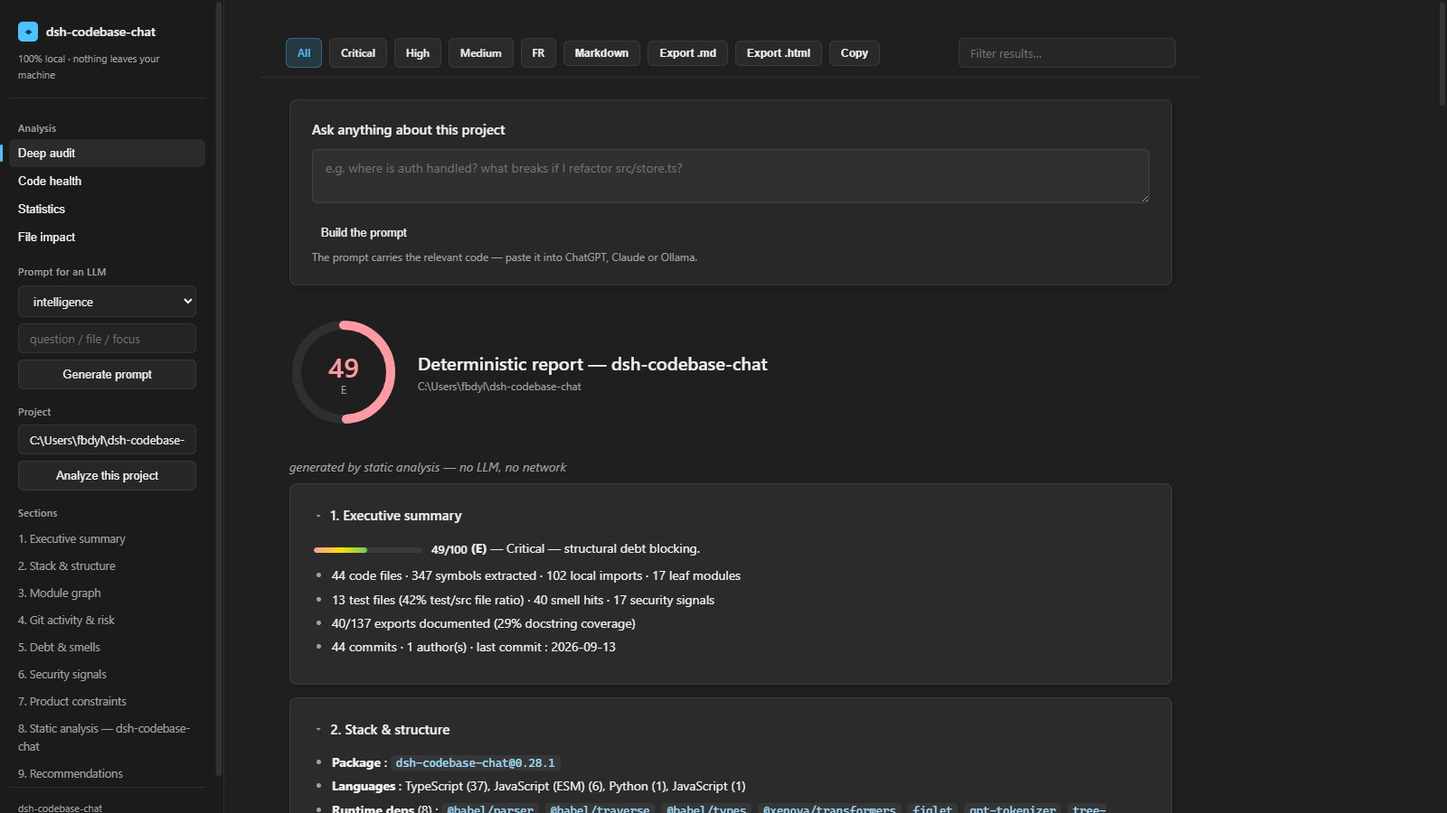
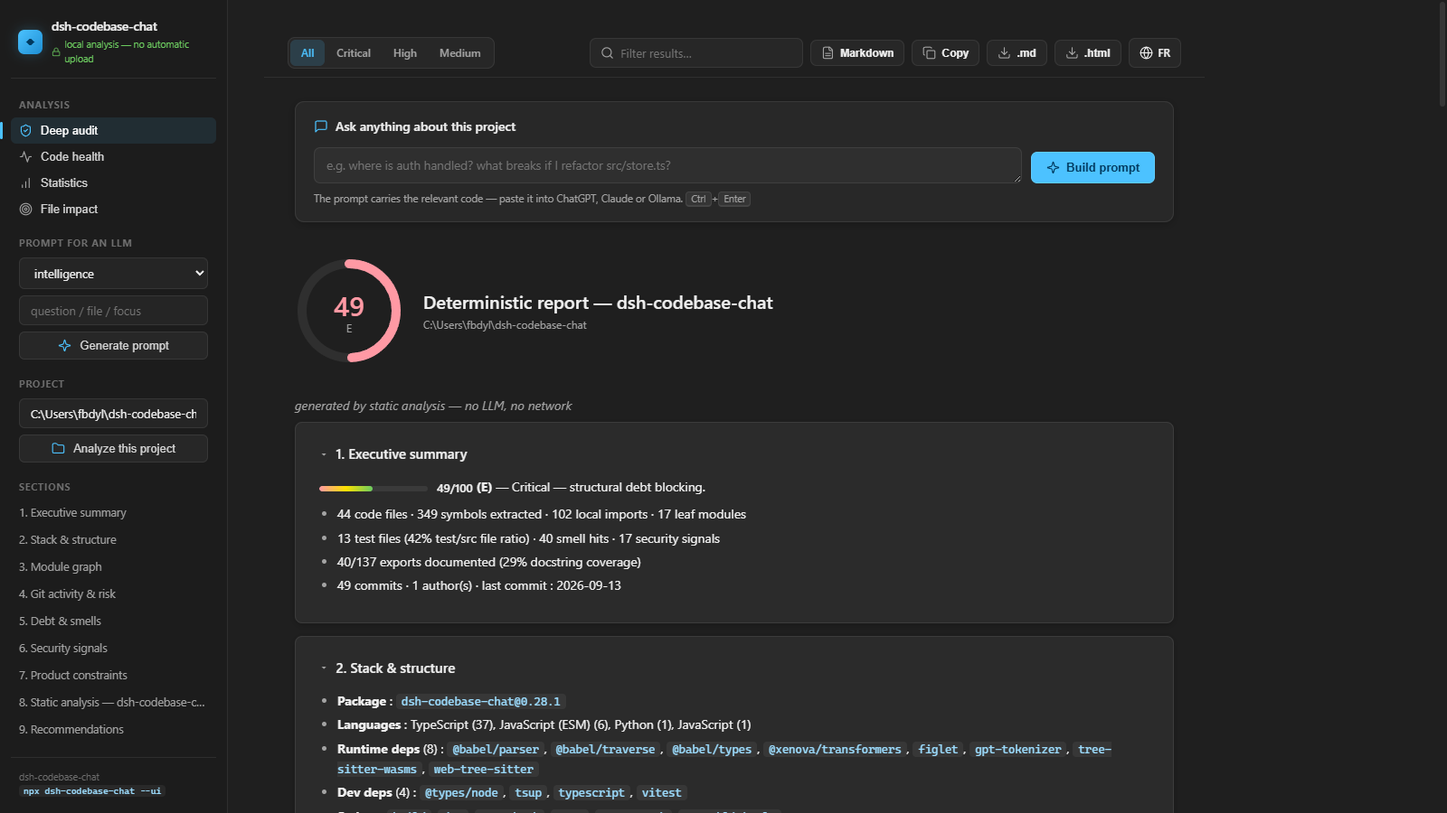
docs: precision vie privee — depot jamais envoye, modele choisi par l'utilisateur

diff --git a/docs/index.html b/docs/index.html
@@ -399,7 +399,7 @@
           <p class="text-lg md:text-xl text-[#a3a3a3] max-w-2xl mx-auto mb-10 leading-relaxed font-light reveal reveal-3" data-i18n-html="hero.sub">
             Chat, search, explain, refactor, audit — and generate board-ready reports.
             Every claim carries a source citation, a confidence score, and a severity label.
-            <span class="text-white font-normal">Local-first. French &amp; English. Works fully offline.</span>
+            <span class="text-white font-normal">Your code is indexed locally — you pick the model. Fully offline mode included.</span>
           </p>
 
           <div class="flex flex-col sm:flex-row items-center justify-center gap-3.5 reveal reveal-3">
@@ -458,7 +458,7 @@
             <p class="kicker mb-4" data-i18n="pw.kicker">Start here</p>
             <h2 class="text-3xl sm:text-[2.6rem] font-bold tracking-tight mb-4" data-i18n="pw.title">What is this, exactly?</h2>
             <p class="text-[#a3a3a3] max-w-2xl mx-auto" data-i18n="pw.lead">In plain words — no jargon required.</p>
-            <p class="mt-6 text-[14px] text-[#a3a3a3] max-w-2xl mx-auto leading-relaxed" data-i18n="pw.intro">Point it at a folder of code on your computer. Ask questions in plain language — "How does login work?", "Is there a hardcoded password?", "What should I fix first?" — in French or English. Every answer cites the exact file and line it came from, so you can verify it in seconds. Nothing is uploaded anywhere.</p>
+            <p class="mt-6 text-[14px] text-[#a3a3a3] max-w-2xl mx-auto leading-relaxed" data-i18n="pw.intro">Point it at a folder of code on your computer. Ask questions in plain language — "How does login work?", "Is there a hardcoded password?", "What should I fix first?" — in French or English. Every answer cites the exact file and line it came from, so you can verify it in seconds. Your repo is never uploaded — only the relevant excerpts reach whichever model you choose.</p>
           </div>
 
           <div class="grid md:grid-cols-3 gap-5 mb-10">
@@ -618,7 +618,7 @@
                   <div class="mt-2"><span class="cursor-blink">▍</span></div>
                 </div>
               </div>
-              <p class="mt-3 text-[11px] font-mono text-[#7d7d7d] text-center" data-i18n="pipe.termCap">stylized view of a real pipeline run — nothing leaves the machine</p>
+              <p class="mt-3 text-[11px] font-mono text-[#7d7d7d] text-center" data-i18n="pipe.termCap">stylized view of a real run — indexing &amp; retrieval stay on your machine; only the assembled prompt reaches the model</p>
             </div>
           </div>
         </div>
@@ -1030,7 +1030,7 @@
             </details>
             <details class="card rounded-md p-5 group on-scroll">
               <summary class="font-semibold text-white cursor-pointer list-none flex justify-between items-center text-[15px]"><span data-i18n="faq.q2">Does it send my code to the cloud?</span><span class="text-[#a3a3a3] group-open:rotate-180 transition"><svg width="16" height="16" viewBox="0 0 24 24" fill="none" stroke="currentColor" stroke-width="2.5" stroke-linecap="round" stroke-linejoin="round"><path d="M6 9l6 6 6-6"/></svg></span></summary>
-              <p class="text-[#a3a3a3] mt-3 text-sm leading-relaxed" data-i18n-html="faq.a2">No. Indexing, retrieval, and prompt building all run on your machine. In prompt-only mode nothing leaves your machine — the host model reads the assembled context — and the <code class="font-mono text-[#4cc2ff]">--no-llm</code> report is computed locally end to end, zero network.</p>
+              <p class="text-[#a3a3a3] mt-3 text-sm leading-relaxed" data-i18n-html="faq.a2">Your repo is never uploaded. Indexing, retrieval and prompt building run on your machine — the tool itself makes no upload. When you ask for an answer, only the assembled prompt (the relevant excerpts, not the whole codebase) reaches whichever model you picked: your IDE's host model, an API key with <code class="font-mono text-[#4cc2ff]">--call</code>, or a local model like Ollama. For zero network end to end, <code class="font-mono text-[#4cc2ff]">--no-llm</code> and <code class="font-mono text-[#4cc2ff]">--ui</code> compute the report locally.</p>
             </details>
             <details class="card rounded-md p-5 group on-scroll">
               <summary class="font-semibold text-white cursor-pointer list-none flex justify-between items-center text-[15px]"><span data-i18n="faq.q3">Do I need an API key?</span><span class="text-[#a3a3a3] group-open:rotate-180 transition"><svg width="16" height="16" viewBox="0 0 24 24" fill="none" stroke="currentColor" stroke-width="2.5" stroke-linecap="round" stroke-linejoin="round"><path d="M6 9l6 6 6-6"/></svg></span></summary>
@@ -1065,7 +1065,7 @@
               <div class="absolute" style="width: 55%; height: 90%; left: -8%; top: -25%; background: radial-gradient(closest-side, rgba(76,194,255,0.10), transparent 70%); filter: blur(50px)"></div>
             </div>
             <h2 class="relative text-3xl sm:text-[2.9rem] font-bold tracking-tight mb-4" data-i18n="cta.title">Ready to understand your codebase?</h2>
-            <p class="relative text-[#a3a3a3] mb-10 max-w-lg mx-auto" data-i18n="cta.sub">One install. Fourteen tools. Zero cloud upload.</p>
+            <p class="relative text-[#a3a3a3] mb-10 max-w-lg mx-auto" data-i18n="cta.sub">One install. Fourteen tools. Your repo is never uploaded.</p>
             <div class="relative inline-flex items-center gap-3 rounded-md bg-[#1a1a1a] border border-white/10 px-4 py-3 mb-8 font-mono text-[13.5px] text-[#f0f0f0]">
               <span class="text-[#6ccb5f]">$</span> <span id="code-cta">npx dsh-codebase-chat-mcp setup</span>
               <button onclick="copyCode('code-cta', this)" class="px-2.5 py-1 rounded-md text-[11px] font-medium bg-white/5 hover:bg-white/10 border border-white/10 text-[#a3a3a3] transition" data-i18n="btn.copy">Copy</button>
@@ -1143,7 +1143,7 @@
           new: "NOUVEAU",
           badge: "v0.28 — dashboard --ui + audit déterministe --no-llm",
           title: 'Votre code,<br><span class="gradient-text-anim">entièrement compris.</span>',
-          sub: 'Chattez, recherchez, expliquez, refactorez, auditez — et générez des rapports prêts pour le comité. Chaque affirmation s\u2019appuie sur une citation de source, un score de confiance et un niveau de sévérité. <span class="text-white font-normal">Local-first. Français &amp; anglais. Fonctionne 100 % hors-ligne.</span>',
+          sub: 'Chattez, recherchez, expliquez, refactorez, auditez — et générez des rapports prêts pour le comité. Chaque affirmation s\u2019appuie sur une citation de source, un score de confiance et un niveau de sévérité. <span class="text-white font-normal">Votre code est indexé localement — vous choisissez le modèle. Mode hors-ligne complet inclus.</span>',
           cta1: "Commencer",
           cta2: "Voir sur GitHub",
           works: "Fonctionne partout où vous codez",
@@ -1156,9 +1156,9 @@
           kicker: "Par où commencer",
           title: "C\u2019est quoi, exactement ?",
           lead: "En termes simples — sans jargon.",
-          intro: "Pointez-le vers un dossier de code sur votre ordinateur. Posez des questions en langage clair — « Comment fonctionne la connexion ? », « Y a-t-il un mot de passe codé en dur ? », « Que devrais-je réparer en premier ? » — en français ou en anglais. Chaque réponse cite exactement le fichier et la ligne d\u2019où elle vient : vous pouvez vérifier en quelques secondes. Rien n\u2019est envoyé sur internet.",
+          intro: "Pointez-le vers un dossier de code sur votre ordinateur. Posez des questions en langage clair — « Comment fonctionne la connexion ? », « Y a-t-il un mot de passe codé en dur ? », « Que devrais-je réparer en premier ? » — en français ou en anglais. Chaque réponse cite exactement le fichier et la ligne d\u2019où elle vient : vous pouvez vérifier en quelques secondes. Votre dépôt n\u2019est jamais envoyé — seuls les extraits pertinents atteignent le modèle que vous avez choisi.",
           c1t: "Pointez-le vers un dossier",
-          c1b: "Donnez-lui n\u2019importe quel projet de votre ordinateur. Il lit le code et en construit une carte — rien n\u2019est envoyé nulle part.",
+          c1b: "Donnez-lui n\u2019importe quel projet de votre ordinateur. Il lit le code et en construit une carte — l\u2019index ne quitte jamais votre disque.",
           c2t: "Posez des questions en langage clair",
           c2b: "« Comment fonctionne la connexion ? », « Y a-t-il un mot de passe codé en dur ? », « Que devrais-je réparer en premier ? » — en français ou en anglais.",
           c3t: "Des réponses avec preuves",
@@ -1179,7 +1179,7 @@
         pipe: {
           kicker: "Comment ça marche",
           title: "Du code désordonné aux décisions claires",
-          sub: "Quatre étapes — tout sur votre machine, avant que quoi que ce soit n\u2019atteigne un modèle d\u2019IA.",
+          sub: "Quatre étapes — tout sur votre machine, avant que le prompt assemblé n\u2019atteigne le modèle que vous avez choisi.",
           s1t: "Indexation",
           s1b: "Parsing AST réel (Babel + tree-sitter) qui cartographie chaque fonction, classe et import en JS/TS, Python, Go, Rust, Java, C# et PHP — une fois, puis seulement ce qui a changé.",
           s2t: "Extraction",
@@ -1188,7 +1188,7 @@
           s3b: "Emballe le code pertinent dans un briefing pour l\u2019IA — avec citations, en français ou en anglais.",
           s4t: "Décision",
           s4b: 'Vous obtenez une réponse vérifiable — chaque affirmation pointe vers <code class="font-mono text-xs text-[#4cc2ff]">[source: fichier:ligne]</code>.',
-          termCap: "vue stylisée d'un run réel — rien ne quitte la machine"
+          termCap: "vue stylisée d'un run réel — indexation & recherche sur votre machine ; seul le prompt assemblé atteint le modèle"
         },
         feat: {
           kicker: "Fonctionnalités",
@@ -1329,7 +1329,7 @@
           q1: "Je ne suis pas développeur — puis-je quand même l\u2019utiliser ?",
           a1: "Oui. Installez-le, pointez-le vers un dossier de projet et posez des questions en langage clair. Les rapports sont écrits pour des humains — fondateurs, managers, designers et développeurs — pas seulement pour la personne qui a écrit le code.",
           q2: "Est-ce qu\u2019il envoie mon code dans le cloud ?",
-          a2: "Non. L\u2019indexation, la recherche et la construction du prompt tournent sur votre machine. En mode prompt-only rien ne quitte votre machine — le modèle hôte lit le contexte assemblé — et le rapport <code class=\"font-mono text-[#4cc2ff]\">--no-llm</code> est calculé localement de bout en bout, zéro réseau.",
+          a2: "Votre dépôt n\u2019est jamais envoyé. Indexation, recherche et construction du prompt tournent sur votre machine — l\u2019outil lui-même n\u2019envoie rien. Quand vous demandez une réponse, seul le prompt assemblé (les extraits pertinents, pas tout le code) atteint le modèle que vous avez choisi : modèle de l\u2019IDE, clé API via <code class=\"font-mono text-[#4cc2ff]\">--call</code>, ou modèle local type Ollama. Pour du zéro réseau de bout en bout, <code class=\"font-mono text-[#4cc2ff]\">--no-llm</code> et <code class=\"font-mono text-[#4cc2ff]\">--ui</code> calculent le rapport localement.",
           q3: "Ai-je besoin d\u2019une clé API ?",
           a3: 'Non — trois façons d\u2019obtenir une sortie : le modèle hôte (<code class="font-mono text-[#4cc2ff]">promptOnly</code>, meilleure qualité — pipez-le vers un modèle local type Ollama pour du hors-ligne), une clé <code class="font-mono text-[#4cc2ff]">DEEPSEEK_API_KEY</code>/<code class="font-mono text-[#4cc2ff]">OPENAI_API_KEY</code> pour les appels directs (<code class="font-mono text-[#4cc2ff]">--call</code>), ou le rapport déterministe (<code class="font-mono text-[#4cc2ff]">--no-llm</code>) — aucun modèle du tout. Dans DeepSeek Harness, le plugin utilise votre modèle configuré.',
           q4: "Puis-je l\u2019utiliser avec Claude, Cursor ou Windsurf ?",
@@ -1343,7 +1343,7 @@
         },
         cta: {
           title: "Prêt à comprendre votre codebase ?",
-          sub: "Une installation. Quatorze outils. Zéro envoi dans le cloud.",
+          sub: "Une installation. Quatorze outils. Votre dépôt n\u2019est jamais envoyé.",
           btn1: "Commencer",
           btn2: "Star sur GitHub"
         },

diff --git a/src/dashboard.ts b/src/dashboard.ts
@@ -13,6 +13,7 @@ import { findProjectRoot } from './project.js';
 import { parseReportMd, DASH_CSS, scoreGauge, reportToHtml } from './ui.js';
 import { computeStats } from './stats.js';
 import { fmtCost, CALL_INPUT_TOKENS, CALL_OUTPUT_TOKENS } from './pricing.js';
+import { getChangedFiles } from './diff.js';
 
 type Lang = 'fr' | 'en';
 
@@ -119,17 +120,23 @@ pre.big{max-height:60vh}
 .dim-s{color:var(--dim);font-size:12px}
 .fitbar{display:inline-block;width:90px;height:6px;background:#ffffff14;border-radius:3px;overflow:hidden;vertical-align:middle;margin-right:8px}
 .fitbar i{display:block;height:100%;background:var(--acc);border-radius:3px}
+a.fref{color:inherit;text-decoration:none;cursor:pointer}
+a.fref:hover code,a.fref:hover{color:var(--acc)}
+.chips{display:flex;flex-wrap:wrap;gap:4px;padding:4px 10px 8px}
+.chips .lbl{width:100%;font-size:10.5px;color:var(--dim);letter-spacing:.04em;padding:2px 0}
+.chip2{background:#ffffff0d;border:1px solid var(--line);color:var(--txt);padding:3px 8px;border-radius:5px;font-size:11px;cursor:pointer;font-family:Consolas,monospace;white-space:nowrap;overflow:hidden;text-overflow:ellipsis;max-width:100%}
+.chip2:hover{border-color:var(--acc);color:var(--acc)}
 .hidden{display:none!important}
 @media(max-width:860px){aside{position:static;width:auto}body{display:block}main{margin:0}.top{flex-wrap:wrap}.searchwrap input{width:120px}}
 </style></head><body>
 <aside>
-<div class="brand"><div class="mk">◆</div><div><div class="nm" title="${esc(absPath)}">${esc(project)}</div><div class="lc">${IC.lock} ${t('100% local — rien ne sort', '100% local — nothing leaves')}</div></div></div>
+<div class="brand"><div class="mk">◆</div><div><div class="nm" title="${esc(absPath)}">${esc(project)}</div><div class="lc">${IC.lock} ${t('analyse locale — aucun envoi automatique', 'local analysis — no automatic upload')}</div></div></div>
 <div class="grp">${t('Analyses', 'Analysis')}</div>
 <button class="act" data-a="audit">${IC.audit}${t('Audit complet', 'Deep audit')}</button>
 <button class="act" data-a="health">${IC.health}${t('Santé du code', 'Code health')}</button>
 <button class="act" data-a="stats">${IC.stats}${t('Statistiques', 'Statistics')}</button>
 <button class="act" data-a="impact">${IC.impact}${t('Impact d\'un fichier', 'File impact')}</button>
-<div id="impactBox" class="mini hidden"><input type="text" id="ifile" list="fileList" placeholder="src/store.ts" autocomplete="off"><datalist id="fileList"></datalist><button class="act" id="igo">${IC.play}${t('Analyser', 'Analyze')}</button></div>
+<div id="impactBox" class="mini hidden"><input type="text" id="ifile" list="fileList" placeholder="src/store.ts" autocomplete="off"><datalist id="fileList"></datalist><button class="act" id="igo">${IC.play}${t('Analyser', 'Analyze')}</button><div class="chips" id="chgChips"></div></div>
 <div class="grp">${t('Prompt pour un LLM', 'Prompt for an LLM')}</div>
 <div class="mini"><select id="mode">${PROMPT_MODES.map(m => `<option>${m}</option>`).join('')}</select>
 <input type="text" id="q" placeholder="${t('question / fichier / focus', 'question / file / focus')}">
@@ -181,7 +188,11 @@ async function call(url) {
   loading(); setActive(url); mdView = false;
   try {
     const r = await fetch(url); const j = await r.json();
-    if (j.error) { out.innerHTML = '<div class="err">' + escH(j.error) + '</div>'; return; }
+    if (j.error) {
+      out.innerHTML = '<div class="err">' + escH(j.error) + '</div>'
+        + (j.candidates ? '<div class="chips">' + j.candidates.map(f => '<a class="fref chip2" data-f="' + escH(f) + '" href="#">' + escH(f) + '</a>').join('') + '</div>' : '');
+      return;
+    }
     curMd = j.md || ''; curHtml = j.standalone || '';
     document.getElementById('promptOut').classList.add('hidden');
     if (j.nav && j.nav.length) {
@@ -189,17 +200,18 @@ async function call(url) {
       navList.innerHTML = j.nav.map(n => '<a href="#' + escH(n.id) + '">' + escH(n.title) + '</a>').join('');
     } else { navGrp.style.display = 'none'; navList.innerHTML = ''; }
     out.innerHTML = (j.hero || '') + (j.intro || '') + (j.body || j.text || '');
-    filter(); spy();
+    linkify(); filter(); spy();
   } catch (e) { out.innerHTML = '<div class="err">' + escH(e.message) + '</div>'; }
 }
 function setActive(url) {
   document.querySelectorAll('button.act[data-a]').forEach(b => b.classList.toggle('on', url.includes('/api/' + b.dataset.a)));
 }
 const impactBox = document.getElementById('impactBox');
+const runImpact = f => call('/api/impact?file=' + encodeURIComponent(f) + qp());
 document.querySelectorAll('button.act[data-a]').forEach(b => b.onclick = () => {
   const a = b.dataset.a;
   impactBox.classList.toggle('hidden', a !== 'impact');
-  if (a === 'impact') loadFiles();
+  if (a === 'impact') { loadFiles(); loadChanged(); }
   if (a === 'audit') call('/api/audit?x=1' + qp());
   if (a === 'health') call('/api/health?x=1' + qp());
   if (a === 'stats') call('/api/stats?x=1' + qp());
@@ -209,18 +221,45 @@ out.addEventListener('click', e => {
   const h = e.target.closest('h2.coll');
   if (h) h.parentElement.classList.toggle('collapsed');
 });
-// Impact file autocomplete
-let filesLoaded = false;
+// File references → impact navigation (result rows, changed chips, <code> paths)
+document.addEventListener('click', e => {
+  const a = e.target.closest('a.fref');
+  if (a && a.dataset.f) { e.preventDefault(); runImpact(a.dataset.f); }
+});
+// Turn <code>src/x.ts</code> mentions into impact links
+function linkify() {
+  out.querySelectorAll('code').forEach(c => {
+    if (c.closest('a.fref')) return;
+    const s = c.textContent.trim();
+    if (/^[\w@.\-\\/]+\.[a-z0-9]{1,5}$/i.test(s) && (s.includes('/') || s.includes('\\\\'))) {
+      const a = document.createElement('a');
+      a.className = 'fref'; a.dataset.f = s; a.href = '#'; a.title = '${t('Voir l\u2019impact', 'See impact')}';
+      c.replaceWith(a); a.appendChild(c);
+    }
+  });
+}
+// Impact file autocomplete + changed-file chips
+let filesLoaded = false, changedLoaded = false;
 async function loadFiles() {
   if (filesLoaded) return; filesLoaded = true;
   const r = await fetch('/api/files?x=1' + qp()); const j = await r.json();
   document.getElementById('fileList').innerHTML = (j.files || []).map(f => '<option value="' + f + '">').join('');
 }
+async function loadChanged() {
+  if (changedLoaded) return; changedLoaded = true;
+  const el = document.getElementById('chgChips');
+  try {
+    const r = await fetch('/api/changed?x=1' + qp()); const j = await r.json();
+    el.innerHTML = j.ok && j.files.length
+      ? '<span class="lbl">${t('MODIFIÉS vs HEAD — cliquer pour analyser', 'CHANGED vs HEAD — click to analyse')}</span>' + j.files.slice(0, 15).map(f => '<a class="fref chip2" data-f="' + escH(f) + '" href="#">' + escH(f) + '</a>').join('')
+      : '';
+  } catch {}
+}
 document.getElementById('ifile').addEventListener('focus', loadFiles);
 document.getElementById('ifile').addEventListener('keydown', e => { if (e.key === 'Enter') document.getElementById('igo').click(); });
 document.getElementById('igo').onclick = () => {
   const f = document.getElementById('ifile').value.trim();
-  if (f) call('/api/impact?file=' + encodeURIComponent(f) + qp());
+  if (f) runImpact(f);
 };
 // Prompt generator
 document.getElementById('gen').onclick = async () => {
@@ -318,6 +357,11 @@ export async function startDashboard(projectPath: string, lang: Lang): Promise<{
         json(res, { files: Object.keys(index.files).sort() });
         return;
       }
+      if (u.pathname === '/api/changed') {
+        const s = await getChangedFiles(target, 'HEAD');
+        json(res, { ok: s.ok, files: [...s.files].sort(), error: s.error });
+        return;
+      }
       if (u.pathname === '/api/health') {
         const report = await analyzeProject(await findProjectRoot(target).catch(() => target));
         const md = formatHealthReportMd(report, reqLang);
@@ -330,12 +374,29 @@ export async function startDashboard(projectPath: string, lang: Lang): Promise<{
         if (!file) { json(res, { error: 'file param required' }, 400); return; }
         const r = await analyzeImpact(target, file);
         if (!r.ok) {
-          json(res, { error: r.candidates.length ? `Ambiguous — candidates: ${r.candidates.join(', ')}` : `No code file matches "${file}"` });
+          json(res, {
+            error: r.candidates.length
+              ? (reqLang === 'en' ? `Ambiguous — pick a candidate:` : `Ambigu — choisis un candidat :`)
+              : (reqLang === 'en' ? `No code file matches "${file}"` : `Aucun fichier de code ne correspond à "${file}"`),
+            candidates: r.candidates,
+          });
           return;
         }
-        const md = formatImpactReportMd(r.report, reqLang);
-        const p = parseReportMd(md, project);
-        json(res, { body: p.body || `<p>${p.intro}</p>`, md });
+        const rep = r.report;
+        const tt = (fr: string, en: string) => (reqLang === 'en' ? en : fr);
+        const riskLabel = { low: tt('FAIBLE', 'LOW'), medium: tt('MOYEN', 'MEDIUM'), high: tt('ÉLEVÉ', 'HIGH') }[rep.risk];
+        const riskCls = { low: 'sev-ok', medium: 'sev-med', high: 'sev-crit' }[rep.risk];
+        const tags = [rep.isEntry ? tt('point d\u2019entrée', 'entry point') : '', rep.inCycle ? tt('dans un cycle de dépendances', 'in a dependency cycle') : ''].filter(Boolean).join(' · ');
+        const depRows = rep.dependents.map(d =>
+          `<tr><td>${d.depth}</td><td><a class="fref" data-f="${esc(d.file)}" href="#"><code>${esc(d.file)}</code></a></td></tr>`).join('')
+          || `<tr><td colspan="2" class="dim-s">${tt('Aucun — rien n\u2019importe ce fichier.', 'None — nothing imports this file.')}</td></tr>`;
+        const body = `<section><h2>${tt('Analyse d\u2019impact', 'Impact analysis')}</h2>
+<p><strong>${tt('Cible', 'Target')} :</strong> <code>${esc(rep.target)}</code>${tags ? ` — <span class="dim-s">${esc(tags)}</span>` : ''}</p>
+<div class="kpis"><div class="kpi"><div class="kv">${rep.directCount}</div><div class="kl">${tt('dépendants directs', 'direct dependents')}</div></div><div class="kpi"><div class="kv">${rep.dependents.length}/${rep.totalFiles}</div><div class="kl">${tt('rayon d\u2019impact', 'blast radius')}</div></div><div class="kpi"><div class="kv">${Math.round(rep.percent * 100)}%</div><div class="kl">${tt('du codebase', 'of codebase')}</div></div></div>
+<p><strong>${tt('Risque', 'Risk')} :</strong> <span class="sev ${riskCls}">${riskLabel}</span> &nbsp;·&nbsp; <strong>${tt('Symboles exportés', 'Exports')} :</strong> ${rep.exportedSymbols.length ? rep.exportedSymbols.map(s => `<code>${esc(s.name)}</code>`).join(', ') : '—'}</p>
+<h3>${tt('Fichiers dépendants — cliquer pour naviguer', 'Dependent files — click to navigate')}</h3>
+<table><tr><th>${tt('Profondeur', 'Depth')}</th><th>${tt('Fichier', 'File')}</th></tr>${depRows}</table></section>`;
+        json(res, { body, md: formatImpactReportMd(rep, reqLang) });
         return;
       }
       if (u.pathname === '/api/stats') {

diff --git a/src/cli.ts b/src/cli.ts
@@ -84,7 +84,8 @@ Options:
   -i, --index            Force re-index the project
   -t, --stats            Print indexing stats
   -H, --health           Deterministic static analysis (cycles, dead code, dupes, complexity)
-  --impact <file>        Blast radius — which files transitively depend on <file>
+  --impact [file]        Blast radius — which files transitively depend on <file>;
+                         bare --impact = every file changed vs HEAD
   -d, --diff <ref>       Scope --ask/--search/--health to files changed vs a git ref
   --prompt <mode>        Print the full LLM prompt (banner + instructions) for a
                          report mode: intelligence, report, audit, tasks, ceo,
@@ -113,7 +114,10 @@ Environment:
 }
 
 async function main() {
+  // Bare `--impact` (no value) → impact of uncommitted changes vs HEAD.
+  const argv = process.argv.slice(2).map(a => (a === '--impact' ? '--impact=' : a));
   const { values } = parseArgs({
+    args: argv,
     options: {
       project: { type: 'string', short: 'p', default: '.' },
       ask: { type: 'string', short: 'a' },
@@ -234,7 +238,32 @@ async function main() {
     exit(0);
   }
 
-  if (values.impact) {
+  if (values.impact !== undefined) {
+    if (!values.impact) {
+      // Bare --impact: blast radius of files changed vs HEAD.
+      const abs = await findProjectRoot(project);
+      const s = await getChangedFiles(abs, 'HEAD');
+      if (!s.ok || !s.files.size) {
+        console.log(lang === 'en'
+          ? 'No changed files (or not a git repo) — pass --impact <file>.'
+          : 'Aucun fichier modifié (ou pas un repo git) — passe --impact <fichier>.');
+        exit(s.ok ? 0 : 1);
+      }
+      console.log(lang === 'en'
+        ? `Changed files vs HEAD: ${s.files.size}`
+        : `Fichiers modifiés vs HEAD : ${s.files.size}`);
+      let any = false;
+      for (const f of [...s.files].sort()) {
+        const r = await analyzeImpact(project, f);
+        if (!r.ok) continue;
+        any = true;
+        console.log('\n' + formatImpactReport(r.report, lang));
+      }
+      if (!any) console.log(lang === 'en'
+        ? 'None of the changed files are indexed code files.'
+        : 'Aucun des fichiers modifiés n\u2019est un fichier de code indexé.');
+      exit(0);
+    }
     const r = await analyzeImpact(project, values.impact);
     if (!r.ok) {
       console.log(lang === 'en'

diff --git a/src/ui.ts b/src/ui.ts
@@ -154,6 +154,7 @@ h2.coll::before{content:'▾';font-size:11px;color:var(--dim);transition:transfo
 section.collapsed h2.coll::before{transform:rotate(-90deg)}
 section.collapsed .sbody{display:none}
 section:not(.collapsed) .sbody{margin-top:14px}
+.sbody{overflow-x:auto}
 h3{margin:16px 0 8px;font-size:14px;color:var(--txt);font-weight:600}
 p{margin:7px 0}ul{margin:7px 0;padding-left:20px}li{margin:4px 0}li::marker{color:var(--dim)}li.sub{color:var(--dim);font-size:13px;margin-left:14px}
 code{font-family:"Cascadia Code",Consolas,ui-monospace,monospace;color:var(--code);background:#ffffff0f;padding:1px 6px;border-radius:4px;font-size:12.5px}

diff --git a/README.md b/README.md
@@ -103,10 +103,9 @@ Every answer from `codebase_chat` arrives with `[source: file:line]` receipts yo
 | --- | :-: | :-: | :-: |
 | Sees your **whole** repo, not one file | ❌ | ✅ | ✅ |
 | `[source: file:line]` citations | ❌ | ~ | ✅ |
-| Code stays on your machine | ❌ | ❌ | ✅ |
+| Repo never uploaded — model sees only relevant excerpts | ❌ | ❌ | ✅ |
 | Inside Claude / Cursor / Windsurf | ❌ | ~ | ✅ |
-| Deterministic health score, no LLM | ❌ | ❌ | ✅ |
-| Deterministic report, zero model (`--no-llm`) | ❌ | ❌ | ✅ |
+| Fully offline analysis — `--no-llm` report & `--ui` dashboard, zero model | ❌ | ❌ | ✅ |
 | Free — no API key, no account | ~ | ❌ | ✅ |
 
 ## How it works
